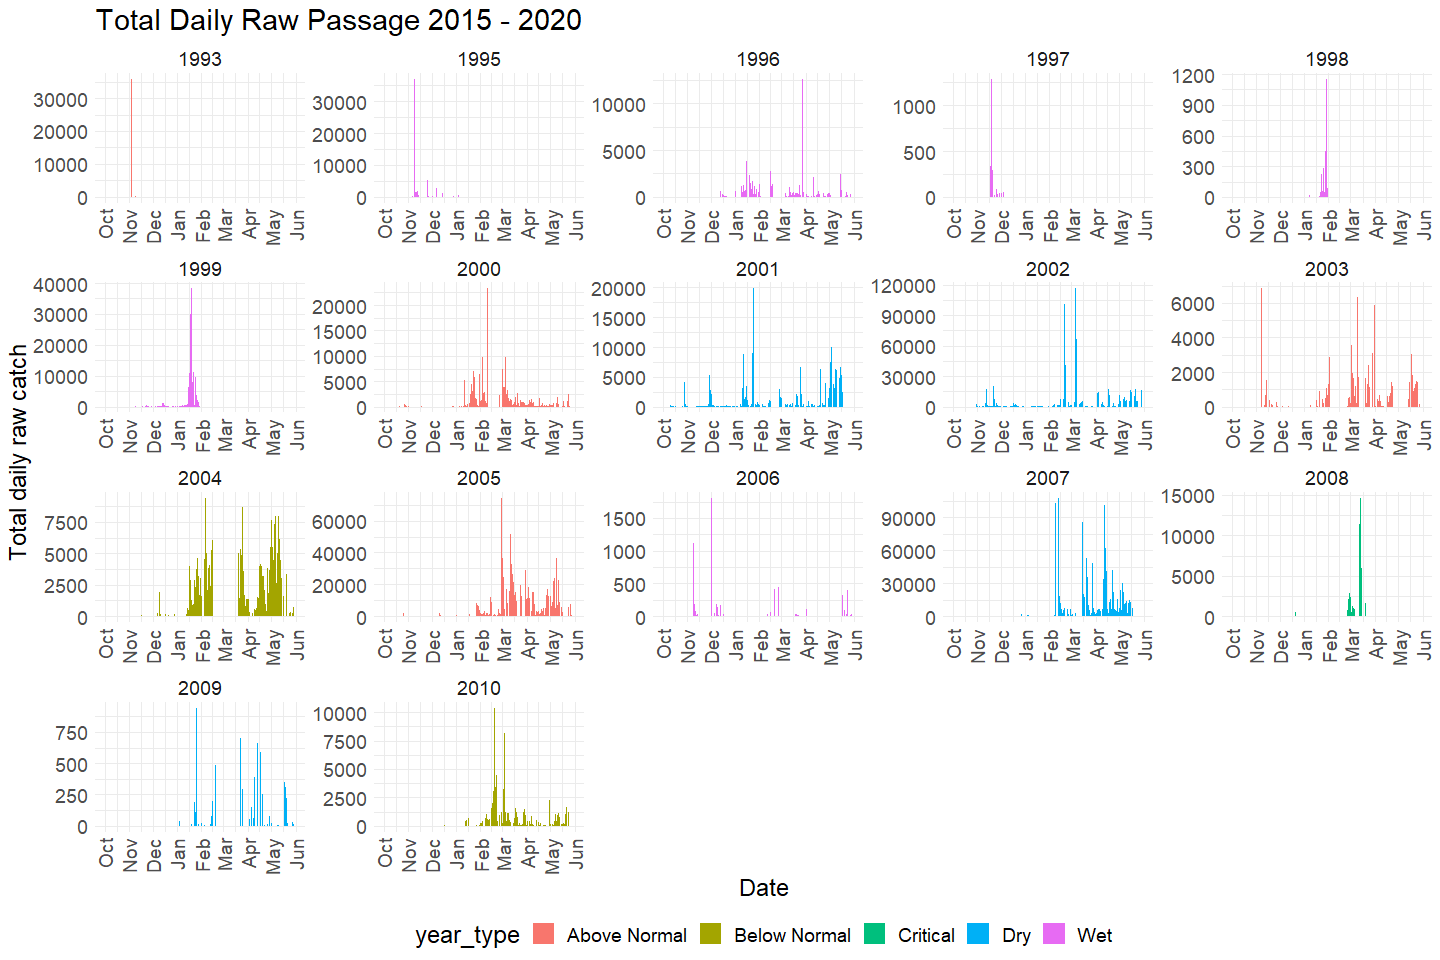
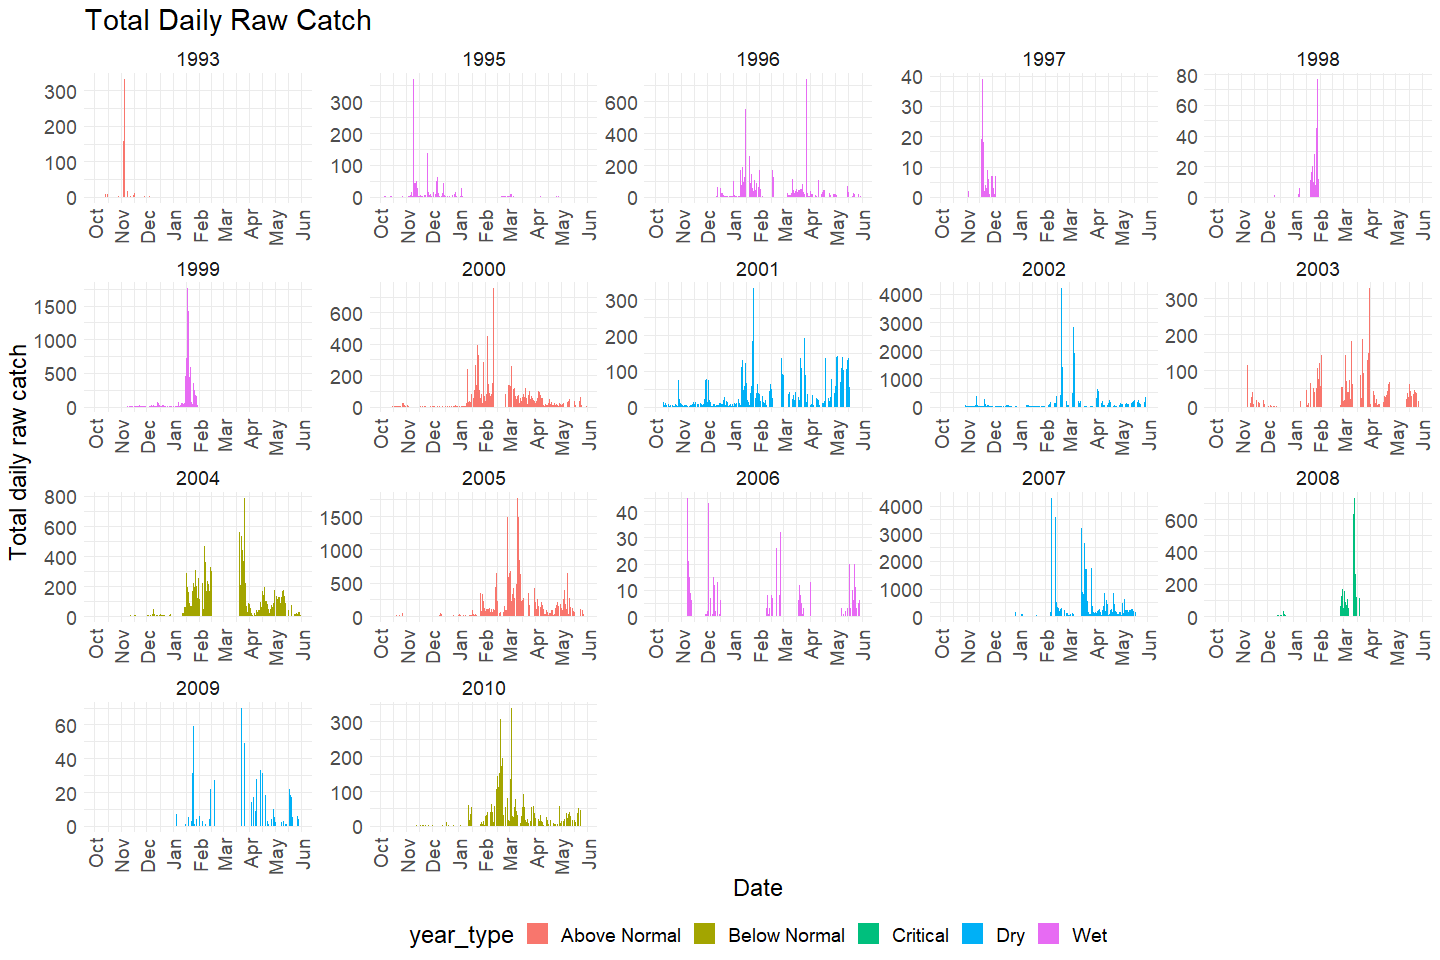
Edits deer creek rst metadata'

diff --git a/scripts/rst/deer-creek/deer_creek_rst_data_qc.md b/scripts/rst/deer-creek/deer_creek_rst_data_qc.md
@@ -7,18 +7,22 @@ Erin Cain
 
 ## Description of Monitoring Data
 
-RST data was shared with us in an access database. I quiried it to
-include both fish catch and trap condions information.
+RST data was shared with us in an access database. I queried it to
+include both fish catch and trap conditions information.
 
-**Timeframe:**
-
-**Video Season:**
+**Timeframe:** 1992 - 2010
 
 **Completeness of Record throughout timeframe:**
 
+-   Very little environmental data collected in beginning of timeframe
+-   Very little trap efficiency data collected in beginning of timeframe
+
 **Sampling Location:**
 
-**Data Contact:**
+4 sites on Deer Creek: Deer Creek Canyon Mouth, Deer Creek Canyon Mouth
+Trap, Deer Creek Canyon Mouth Diversion, Deer Creek RST
+
+**Data Contact:** [Matt Johnson](Matt.Johnson@wildlife.ca.gov)
 
 Comments from Matt: Let me know if you need any help with interpreting
 what is in that database. It is not mine, I inherited it from a retired
@@ -48,9 +52,11 @@ gcs_get_object(object_name =
 Read in data from google cloud, glimpse raw data:
 
 ``` r
-raw_rst_data <- read_excel("raw_rst_deer_and_mill.xlsx", col_types =c("date", "text", "numeric", "text", "numeric", 
-                                                                      "numeric", "numeric", "numeric", "numeric", "numeric", 
-                                                                      "numeric", "numeric", "numeric", "text")) %>% glimpse()
+raw_rst_data <- read_excel("raw_rst_deer_and_mill.xlsx", col_types =c("date", "text", "numeric", "text", 
+                                                                      "numeric", "numeric", "numeric", 
+                                                                      "numeric", "numeric", "numeric", 
+                                                                      "numeric", "numeric", "numeric", 
+                                                                      "text")) %>% glimpse()
 ```
 
     ## Rows: 96,528
@@ -126,14 +132,14 @@ cleaner_rst_data %>% select_if(is.numeric) %>% colnames()
 
 ``` r
 cleaner_rst_data %>% 
+  group_by(date) %>%
+  summarise(total_daily_catch = sum(count)) %>%
   mutate(water_year = ifelse(month(date) %in% 10:12, year(date) + 1, year(date))) %>% 
   left_join(sac_indices) %>%
   mutate(year = as.factor(year(date)),
          fake_year = if_else(month(date) %in% 10:12, 1900, 1901),
          fake_date = as.Date(paste0(fake_year,"-", month(date), "-", day(date)))) %>%
   filter(water_year < 2021) %>%
-  group_by(date) %>%
-  mutate(total_daily_catch = sum(count)) %>%
   ungroup() %>%
   ggplot(aes(x = fake_date, y = total_daily_catch, fill = year_type)) + 
   geom_col() + 
@@ -142,7 +148,7 @@ cleaner_rst_data %>%
   theme(text = element_text(size = 18),
         axis.text.x = element_text(angle = 90, vjust = 0.5, hjust=1),
         legend.position = "bottom") + 
-  labs(title = "Total Daily Raw Passage 2015 - 2020",
+  labs(title = "Total Daily Raw Catch",
        y = "Total daily raw catch",
        x = "Date")+ 
   facet_wrap(~water_year, scales = "free") +
@@ -171,7 +177,8 @@ cleaner_rst_data  %>%
 
 ![](deer_creek_rst_data_qc_files/figure-gfm/unnamed-chunk-7-1.png)<!-- -->
 
-Looks like some sampling gaps.
+Huge amount of fish in 2002. Sampling occurred every year, just very
+small numbers in comparison to 2002 make bars look tiny
 
 **Numeric Summary of counts over Period of Record**
 
@@ -182,6 +189,14 @@ summary(cleaner_rst_data$count)
 
     ##     Min.  1st Qu.   Median     Mean  3rd Qu.     Max.     NA's 
     ##    1.000    1.000    1.000    5.677    2.000 4057.000       39
+
+``` r
+daily_count <- cleaner_rst_data %>% group_by(date) %>% summarise(daily_count = sum(count, na.rm = T)) %>% ggplot(aes(x = date, y = daily_count)) + geom_col()
+summary(daily_count$daily_count)
+```
+
+    ## Length  Class   Mode 
+    ##      0   NULL   NULL
 
 **NA and Unknown Values**
 
